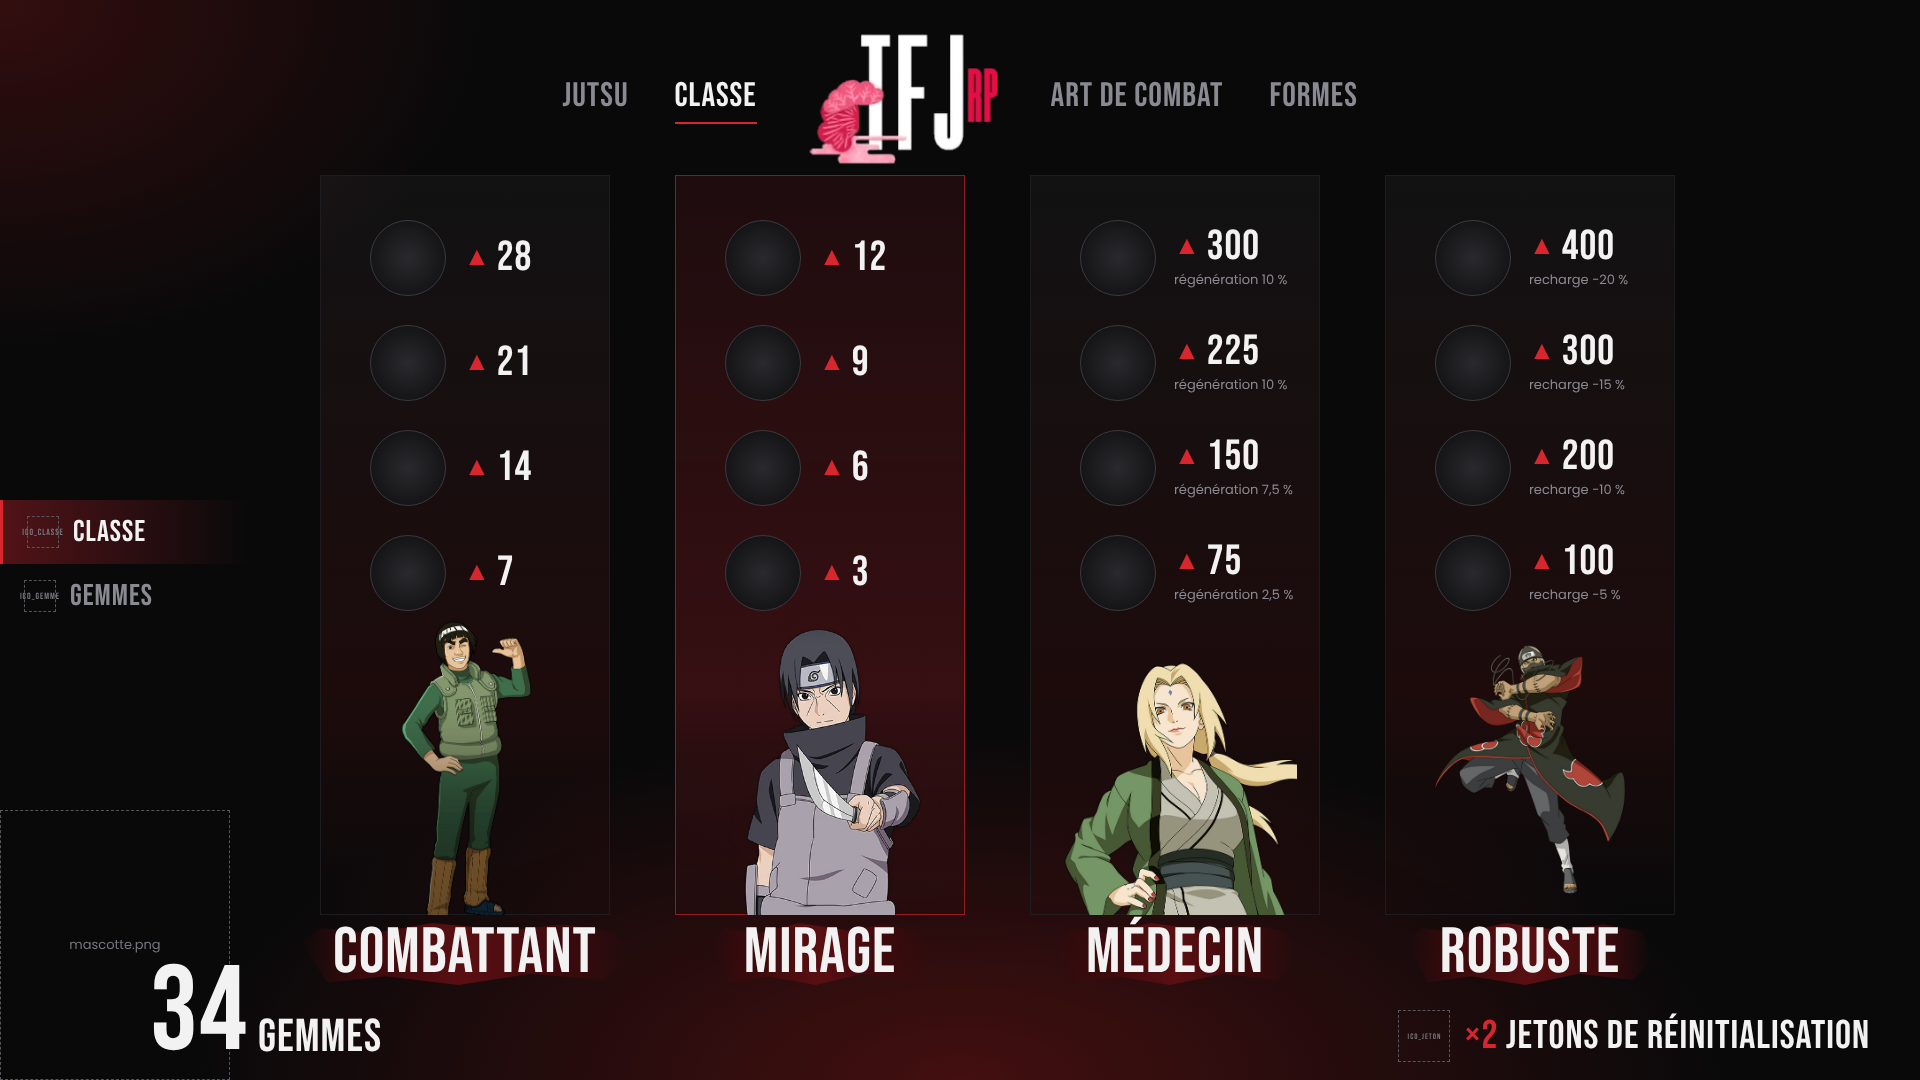
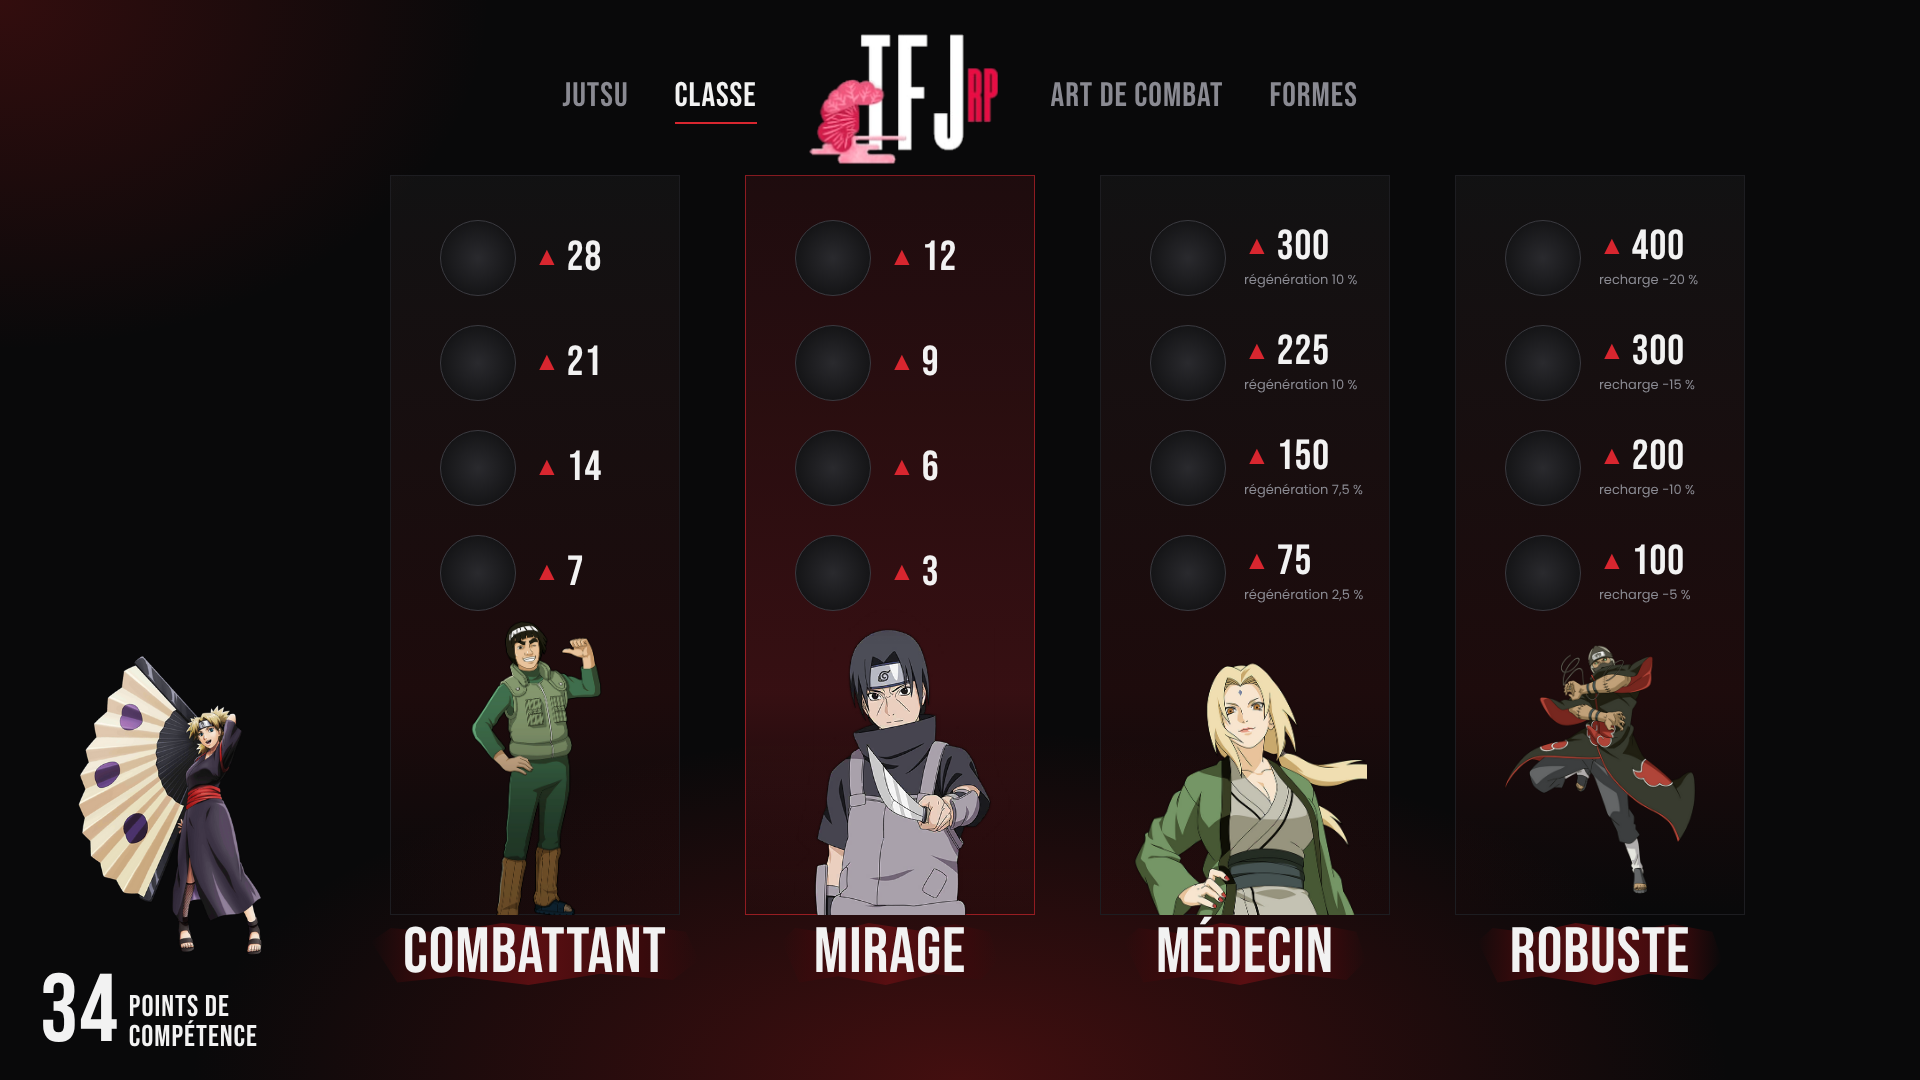
F4 Classe : mascotte, points de competence, sans jetons ni menu gauche
Claude-Session: https://claude.ai/code/session_01WNq6bnfK84GAyjbejrSsQj

diff --git a/maquettes/classe/maquette_f4_classe.html b/maquettes/classe/maquette_f4_classe.html
@@ -22,11 +22,6 @@ body{width:1920px;height:1080px;overflow:hidden;position:relative;font-family:Po
 .nav a{font-size:34px;color:var(--gris);padding-bottom:6px;border-bottom:2px solid transparent}
 .nav a.on{color:var(--blanc);border-color:var(--rougeV)}
 .nav .logo{position:relative;width:190px;height:130px;margin:0 6px}
-/* menu de gauche */
-.gauche{position:absolute;left:0;top:500px;width:250px}
-.gauche div{display:flex;align-items:center;gap:14px;padding:14px 24px;font-size:30px;color:var(--gris)}
-.gauche div.on{color:var(--blanc);background:linear-gradient(90deg,rgba(216,38,47,.35),transparent);border-left:3px solid var(--rougeV)}
-.gauche .ic{position:relative;width:32px;height:32px;font-size:9px}
 /* colonnes */
 .col{position:absolute;top:175px;width:330px;height:820px}
 .col:before{content:"";position:absolute;inset:0 20px 80px;background:linear-gradient(180deg,rgba(255,255,255,.035),rgba(176,26,26,.12) 70%,transparent);border:1px solid #1d1d21}
@@ -44,13 +39,10 @@ body{width:1920px;height:1080px;overflow:hidden;position:relative;font-family:Po
 .nom .t:before{content:"";position:absolute;inset:6px -6px 0;z-index:-1;background:linear-gradient(90deg,transparent,#3a0a0c 18%,#5a0f12 50%,#3a0a0c 82%,transparent);clip-path:polygon(0 30%,6% 8%,22% 16%,40% 0,63% 12%,80% 2%,96% 14%,100% 60%,92% 92%,70% 82%,48% 100%,26% 86%,8% 96%)}
 .nom svg{width:46px;height:46px}
 /* bas */
-.mascotte{left:0;top:810px;width:230px;height:270px}
-.gemmes{position:absolute;left:150px;top:965px;display:flex;align-items:flex-end;gap:10px}
-.gemmes b{font-family:'Bebas Neue';font-size:120px;line-height:.8;font-weight:400}
-.gemmes span{font-size:46px;line-height:1}
-.jetons{position:absolute;right:50px;top:1010px;display:flex;align-items:center;gap:14px;font-size:40px}
-.jetons .slot{position:relative;width:52px;height:52px;font-size:8px}
-.jetons i{font-style:normal;color:var(--rougeV)}
+.mascotte{left:0;top:640px;width:340px;height:330px}
+.gemmes{position:absolute;left:40px;top:975px;display:flex;align-items:flex-end;gap:10px}
+.gemmes b{font-family:'Bebas Neue';font-size:96px;line-height:.8;font-weight:400}
+.gemmes span{font-size:30px;line-height:1}
 </style>
 </head>
 <body>
@@ -60,13 +52,9 @@ body{width:1920px;height:1080px;overflow:hidden;position:relative;font-family:Po
   <a>ART DE COMBAT</a><a>FORMES</a>
 </nav>
 
-<div class="gauche t">
-  <div class="on"><span class="slot ic">ico_classe<img src="images/ico_classe.png" onerror="this.className='ko'"></span>CLASSE</div>
-  <div><span class="slot ic">ico_gemme<img src="images/ico_gemme.png" onerror="this.className='ko'"></span>GEMMES</div>
-</div>
 
 <!-- 4 colonnes = 4 classes du skill tree, 4 techniques chacune (icones existantes) -->
-<div class="col" style="left:300px">
+<div class="col" style="left:370px">
   <div class="palier" style="top:45px"><span class="gem"></span><div><div class="val t"><i>▲</i>28</div></div></div>
   <div class="palier" style="top:150px"><span class="gem"></span><div><div class="val t"><i>▲</i>21</div></div></div>
   <div class="palier" style="top:255px"><span class="gem"></span><div><div class="val t"><i>▲</i>14</div></div></div>
@@ -75,7 +63,7 @@ body{width:1920px;height:1080px;overflow:hidden;position:relative;font-family:Po
   <div class="nom"><div class="t">COMBATTANT</div></div>
 </div>
 
-<div class="col on" style="left:655px">
+<div class="col on" style="left:725px">
   <div class="palier" style="top:45px"><span class="gem"></span><div><div class="val t"><i>▲</i>12</div></div></div>
   <div class="palier" style="top:150px"><span class="gem"></span><div><div class="val t"><i>▲</i>9</div></div></div>
   <div class="palier" style="top:255px"><span class="gem"></span><div><div class="val t"><i>▲</i>6</div></div></div>
@@ -84,7 +72,7 @@ body{width:1920px;height:1080px;overflow:hidden;position:relative;font-family:Po
   <div class="nom"><div class="t">MIRAGE</div></div>
 </div>
 
-<div class="col" style="left:1010px">
+<div class="col" style="left:1080px">
   <div class="palier" style="top:45px"><span class="gem"></span><div><div class="val t"><i>▲</i>300</div><div class="sous">régénération 10 %</div></div></div>
   <div class="palier" style="top:150px"><span class="gem"></span><div><div class="val t"><i>▲</i>225</div><div class="sous">régénération 10 %</div></div></div>
   <div class="palier" style="top:255px"><span class="gem"></span><div><div class="val t"><i>▲</i>150</div><div class="sous">régénération 7,5 %</div></div></div>
@@ -93,7 +81,7 @@ body{width:1920px;height:1080px;overflow:hidden;position:relative;font-family:Po
   <div class="nom"><div class="t">MÉDECIN</div></div>
 </div>
 
-<div class="col" style="left:1365px">
+<div class="col" style="left:1435px">
   <div class="palier" style="top:45px"><span class="gem"></span><div><div class="val t"><i>▲</i>400</div><div class="sous">recharge −20 %</div></div></div>
   <div class="palier" style="top:150px"><span class="gem"></span><div><div class="val t"><i>▲</i>300</div><div class="sous">recharge −15 %</div></div></div>
   <div class="palier" style="top:255px"><span class="gem"></span><div><div class="val t"><i>▲</i>200</div><div class="sous">recharge −10 %</div></div></div>
@@ -103,7 +91,6 @@ body{width:1920px;height:1080px;overflow:hidden;position:relative;font-family:Po
 </div>
 
 <div class="slot mascotte">mascotte.png<img src="images/mascotte.png" onerror="this.className='ko'"></div>
-<div class="gemmes t"><b>34</b><span>GEMMES</span></div>
-<div class="jetons t"><span class="slot">ico_jeton<img src="images/ico_jeton.png" onerror="this.className='ko'"></span><span><i>×2</i> JETONS DE RÉINITIALISATION</span></div>
+<div class="gemmes t"><b>34</b><span>POINTS DE<br>COMPÉTENCE</span></div>
 </body>
 </html>
